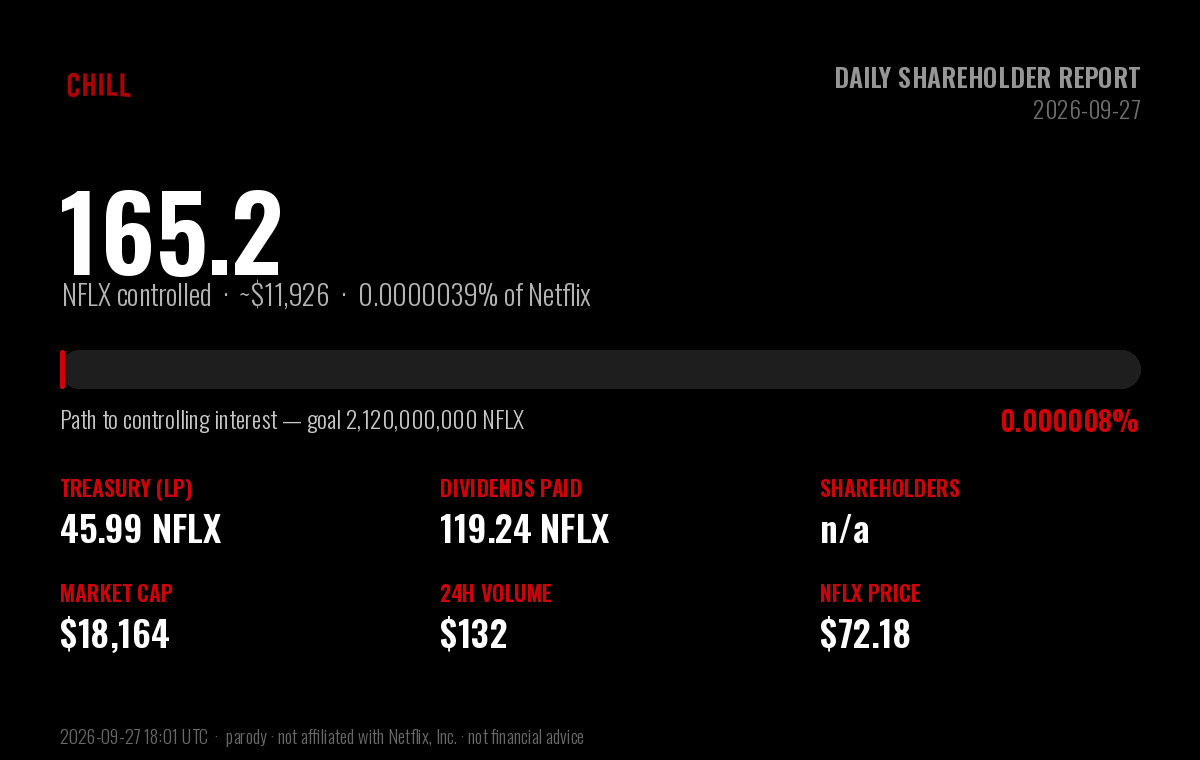
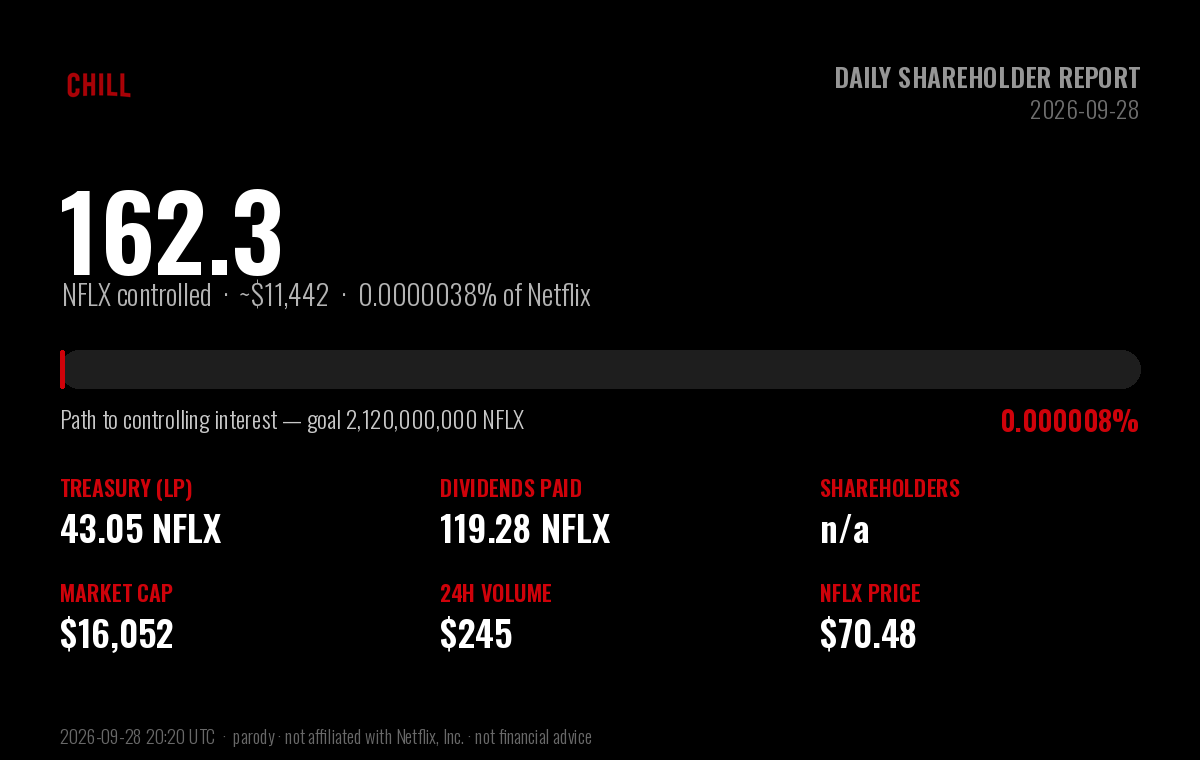
chore: daily $CHILL shareholder report (2026-09-28)

diff --git a/daily-holder-report/README.md b/daily-holder-report/README.md
@@ -1,6 +1,6 @@
 # $CHILL — Daily Shareholder Report
 
-### Netflix and Chill · Report to Shareholders · 2026-09-27
+### Netflix and Chill · Report to Shareholders · 2026-09-28
 
 > **Corporate objective:** acquire a controlling interest in Netflix (NFLX).
 > Netflix has **4,220,000,000** shares outstanding; a majority
@@ -13,53 +13,53 @@
 
 | Metric | Value |
 |---|---|
-| **NFLX under $CHILL control** | **165.23 NFLX** (~$11,926) |
-| Stake in Netflix | 0.000003915% of shares outstanding |
-| Progress to controlling interest | 0.0000078% of 2,120,000,000 |
-| Shares remaining to majority | 2,119,999,835 NFLX |
+| **NFLX under $CHILL control** | **162.33 NFLX** (~$11,442) |
+| Stake in Netflix | 0.000003847% of shares outstanding |
+| Progress to controlling interest | 0.0000077% of 2,120,000,000 |
+| Shares remaining to majority | 2,119,999,838 NFLX |
 
 ## Balance sheet — NFLX holdings
 
 | Holding | NFLX | USD |
 |---|---|---|
-| Treasury (protocol-owned liquidity) | 45.99 | $3,319 |
-| Dividends distributed to shareholders | 119.24 | $8,607 |
-| **Total NFLX controlled** | **165.23** | **$11,926** |
+| Treasury (protocol-owned liquidity) | 43.05 | $3,035 |
+| Dividends distributed to shareholders | 119.28 | $8,407 |
+| **Total NFLX controlled** | **162.33** | **$11,442** |
 
 ## Last 24 hours
 
 | Metric | Value |
 |---|---|
-| Trading volume | 1.83 NFLX (~$132) |
-| Net NFLX accumulated | 1.83 NFLX |
-| Dividends generated | 0.0183 NFLX |
-| Transactions | 3 (3 buys / 0 sells) |
-| $CHILL price change | +7.1% |
+| Trading volume | 3.48 NFLX (~$245) |
+| Net NFLX accumulated | -2.93 NFLX |
+| Dividends generated | 0.0348 NFLX |
+| Transactions | 4 (1 buys / 3 sells) |
+| $CHILL price change | -11.6% |
 
 ## Shareholder & market data
 
 | Metric | Value |
 |---|---|
 | Shareholders of record | n/a |
-| Lifetime unique participants | 1804 |
+| Lifetime unique participants | 1805 |
 | Shares outstanding ($CHILL) | 1,000,000,000 |
-| Market capitalization | $18,164 |
-| $CHILL price | $0.00001816 |
-| NFLX price | $72.18 |
-| Lifetime volume | 11,924.38 NFLX (~$860,688) |
-| Lifetime transactions | 8,545 (4,784 buys / 3,761 sells) |
-| Days since IPO (launch) | 70 |
+| Market capitalization | $16,052 |
+| $CHILL price | $0.00001605 |
+| NFLX price | $70.48 |
+| Lifetime volume | 11,927.86 NFLX (~$840,714) |
+| Lifetime transactions | 8,549 (4,785 buys / 3,764 sells) |
+| Days since IPO (launch) | 71 |
 
 ## Per-share metrics
 
 | Metric | Value |
 |---|---|
-| NFLX backing per 1M $CHILL | 0.165231 NFLX |
-| Dividends per 1M $CHILL | 0.119244 NFLX |
+| NFLX backing per 1M $CHILL | 0.162332 NFLX |
+| Dividends per 1M $CHILL | 0.119279 NFLX |
 
 ---
 
-*Report generated 2026-09-27 18:01 UTC · block 74,136,973 · data via the Sentry-Robinhood
+*Report generated 2026-09-28 20:20 UTC · block 75,079,922 · data via the Sentry-Robinhood
 subgraph and Robinhood Chain explorer.*
 
 **Disclaimer:** $CHILL is an independent, community-driven **parody** token. It is
